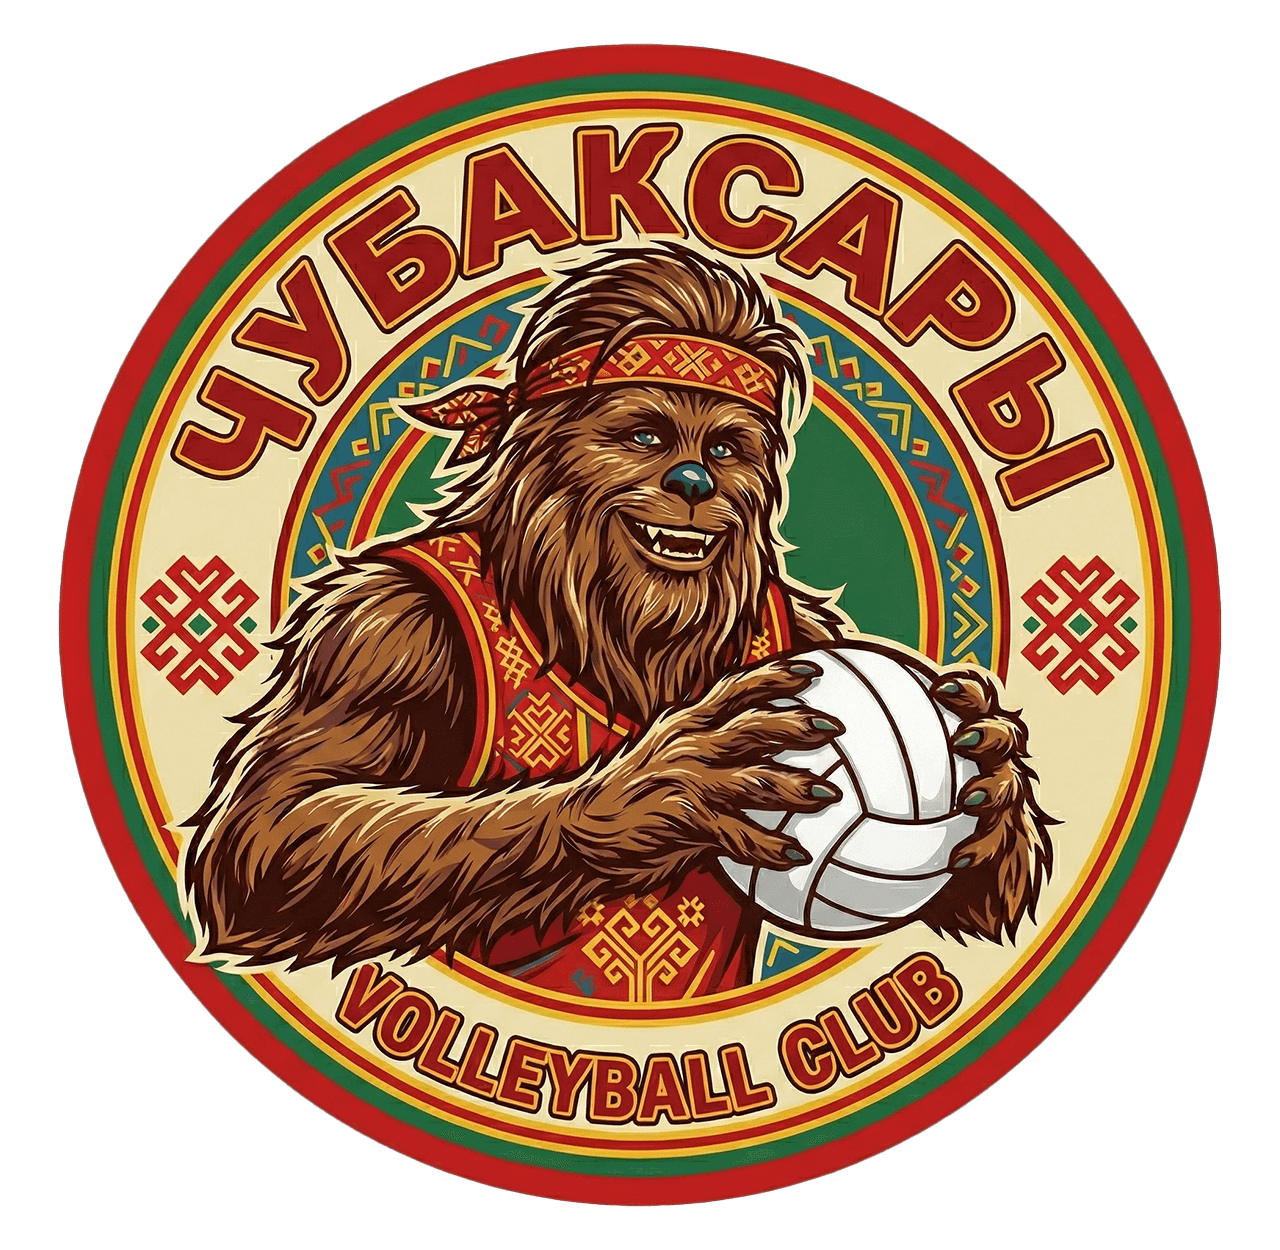
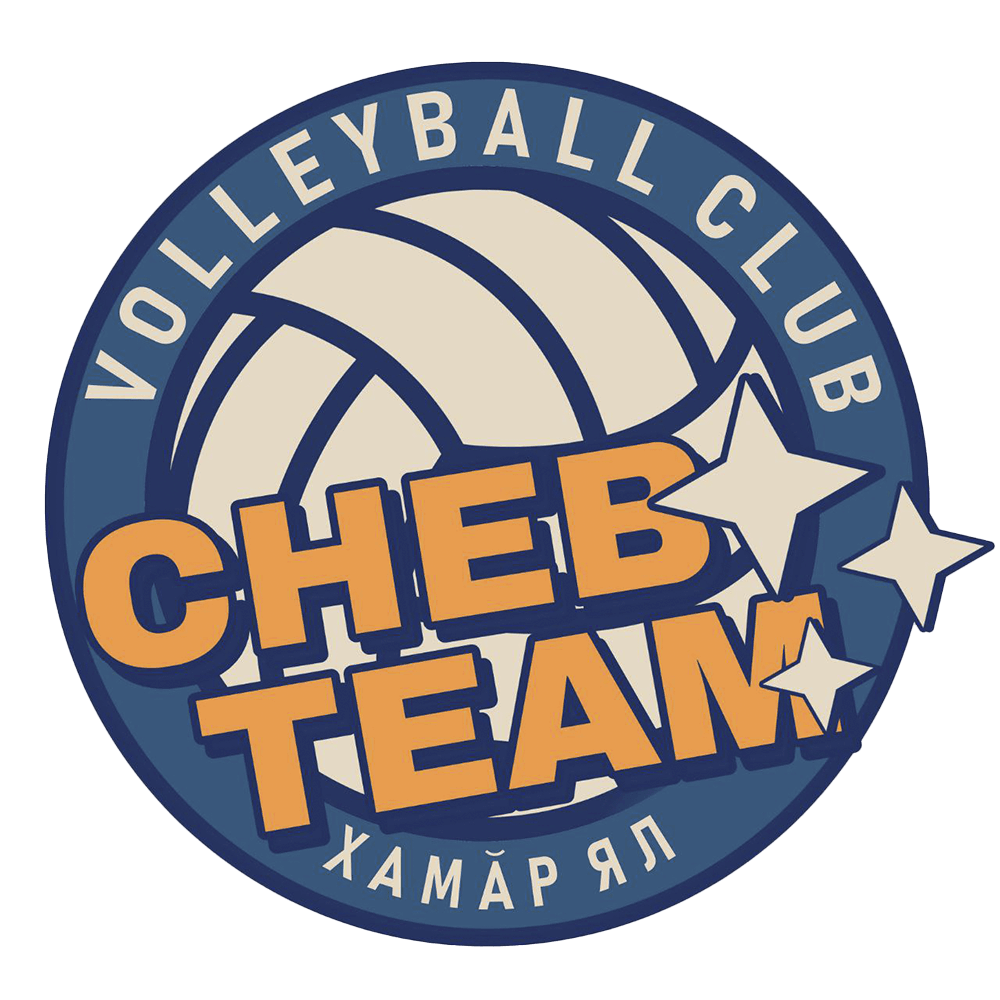
1.10 Исправил текст в памятке, поменял эмблему для чеб

diff --git a/js/notes.js b/js/notes.js
@@ -69,7 +69,7 @@ window.renderNotes = function () {
                 },
                 {
                     icon: icons.stop,
-                    text: "Во время игры никто не должен играть вторым мячом находясь в неотделенной от игровой площадки части зала."
+                    text: "Во время матча никто не должен играть вторым мячом находясь в неотделенной от игровой площадки части зала."
                 },
                 {
                     icon: icons.users,
@@ -100,7 +100,7 @@ window.renderNotes = function () {
             },
             {
                 icon: icons.coffee,
-                text: "В залах будет вода, батончики (для игроков), чай, кофе, сахар. В «Метеоре» есть кафетерий (до 21:00)."
+                text: "В залы закуплена вода (условно по 1 л), батончики (по 2 батончика на каждого игрока на каждый день), чай, кофе, сахар, стаканчики (пожалуйста, подпишите бумажные стаканчики и пользуйтесь ими в течение дня для чая и кофе, а для воды есть одноразовые пластиковые). Так же будет стоять кулер либо термопот и бутыль с помпой. В «Метеоре» есть кафетерий, работает до 21:00. Важно: батончики рассчитаны только на игроков, остальное - и для зрителей, и для игроков."
             },
             {
                 icon: icons.trash,
